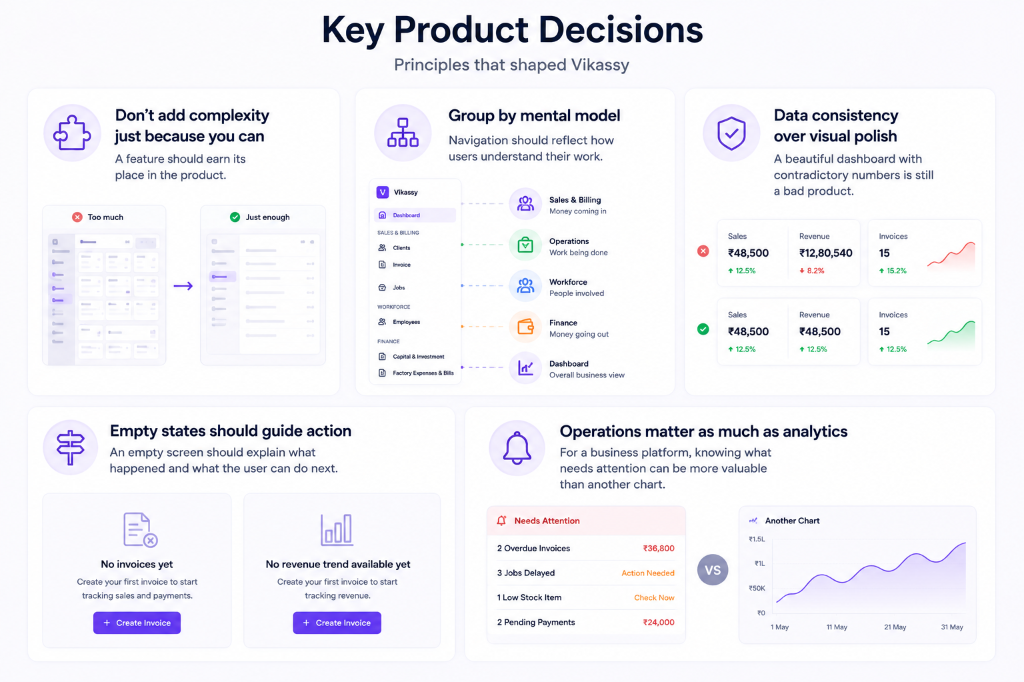
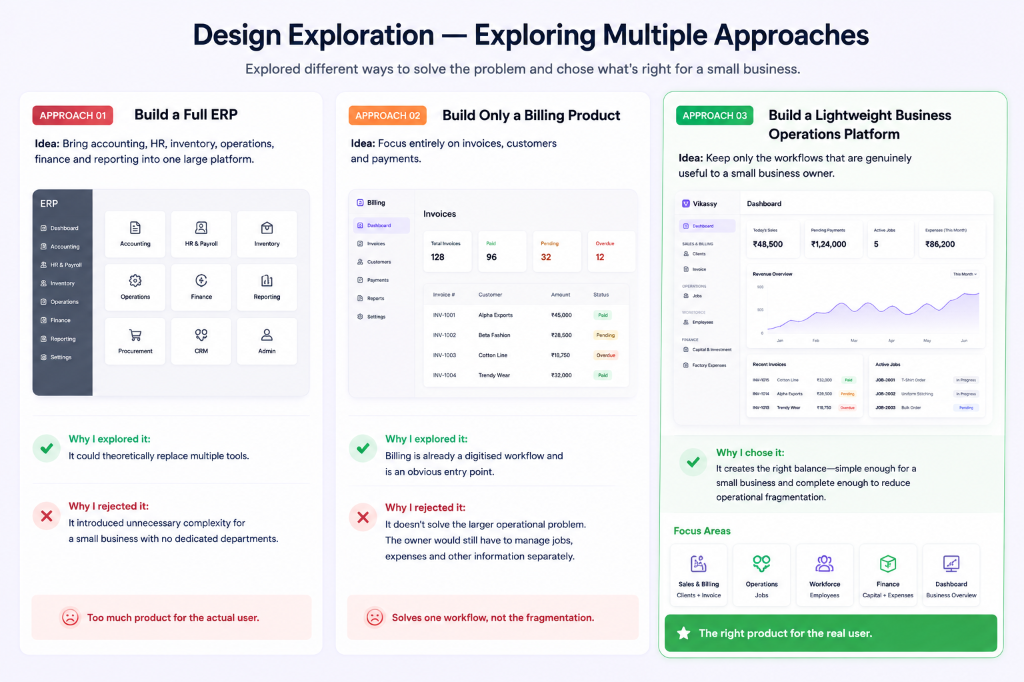
Correct design exploration image and add key product decisions diagram

diff --git a/src/data/projects.ts b/src/data/projects.ts
@@ -25,6 +25,8 @@ import competitorIntelligenceImpactImage from "@/assets/projects/competitor-inte
 import vikassyImage from "@/assets/projects/vikassy.png";
 import vikassyDiscoveryImage from "@/assets/projects/vikassy-discovery.jpg";
 import vikassyExplorationImage from "@/assets/projects/vikassy-exploration.png";
+import vikassyDecisionsImage from "@/assets/projects/vikassy-decisions.png";
+
 
 
 
@@ -480,7 +482,12 @@ export const projects: ProjectData[] = [
         subtitle: "Designing for Real Data & Financial Semantics",
         content:
           "One of the key product decisions was **not filling the dashboard with fake or meaningless data**.\n\nWhen there are no invoices:\n> **No revenue trend available yet**\n> Create your first invoice to start tracking revenue.\n\nWhen there are no customer sales:\n> **No customer sales data yet**\n\nWhen there are no invoices:\n> **No invoices yet**\n> Create your first invoice to start tracking sales and payments.\n\nThis makes the product honest about its current state while giving the user a clear next action.\n\n### Financial semantics\nA dashboard metric such as **Net Profit Margin** should represent a percentage, not a currency amount.\n\nSo when there is no revenue, the product shows the actual **Net Profit** rather than presenting a misleading margin percentage.\n\n> **Data consistency is a UX requirement, not just a technical requirement.**",
-        images: [],
+        images: [
+          {
+            src: vikassyDecisionsImage,
+            alt: "Key Product Decisions - Don't add complexity just because you can vs Group by mental model vs Data consistency over visual polish vs Empty states should guide action",
+          },
+        ],
         layout: "single" as const,
       },
       {
